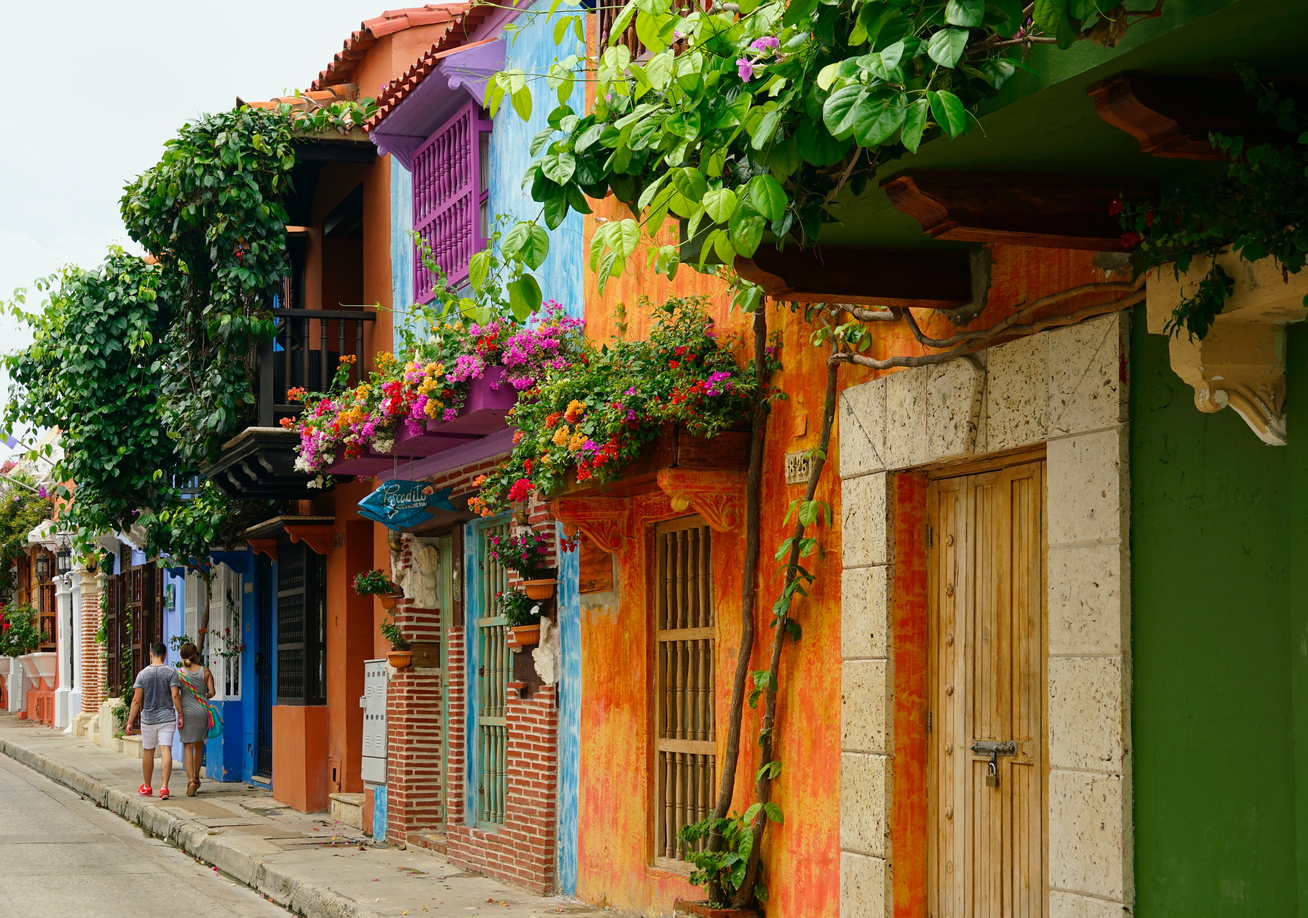
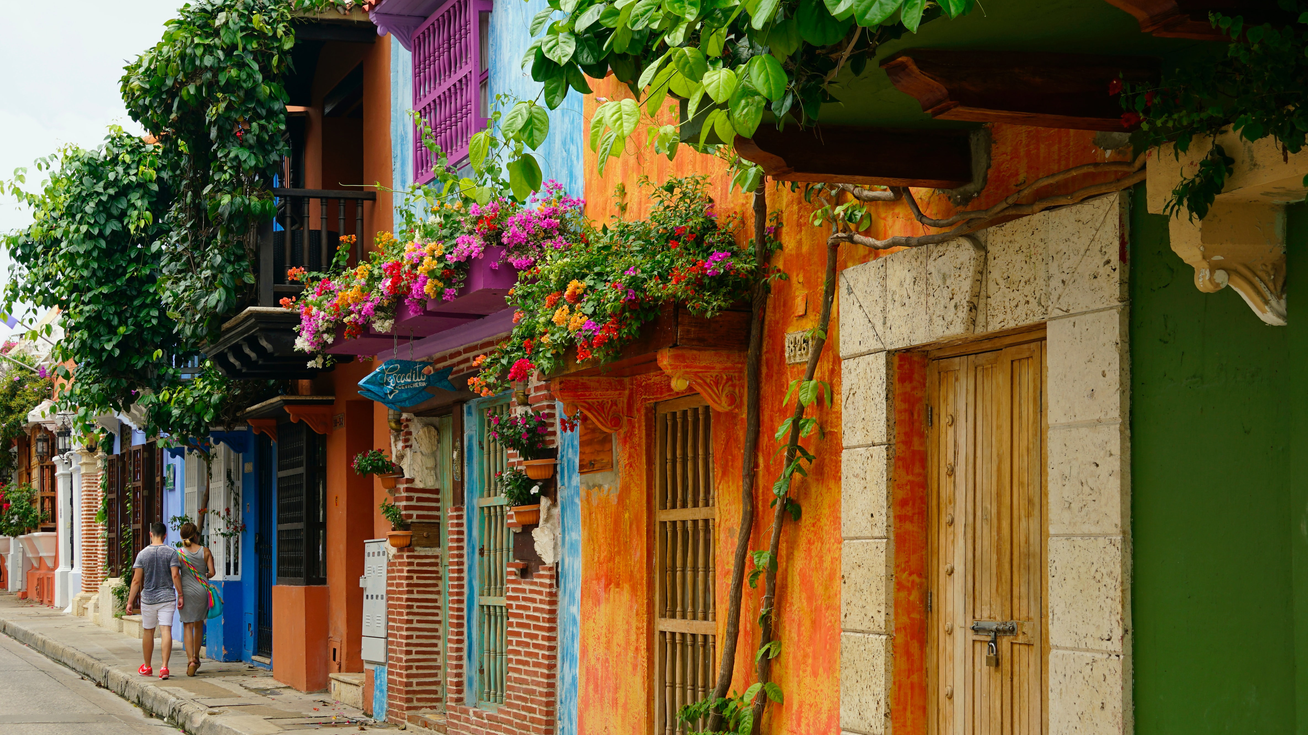
landing changes

diff --git a/src/Pages/Landing/Landing.module.css b/src/Pages/Landing/Landing.module.css
@@ -24,5 +24,5 @@
 
 .Slide img {
     width: 100%;    
-    opacity: 80%;
+    /* opacity: 80%; */
 }
